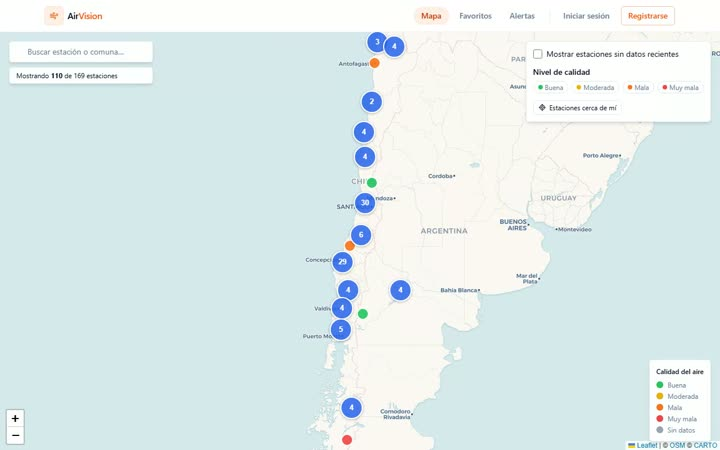
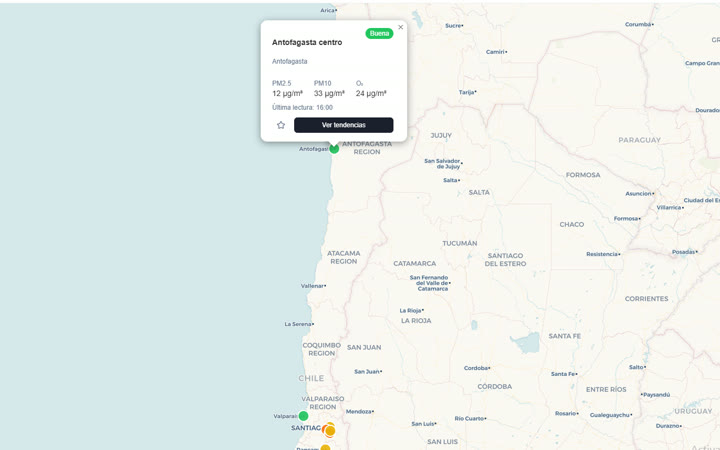
feat: switch project thumbnails to static images
Replace autoplay video thumbnails with static screenshots/logo:
maderas (site hero), airvision (map), eventos (App Cultura PUCV logo).
ProjectThumb now renders a lazy <img>; VIDEO_READY → THUMB_IMG map.
lpr keeps the animated placeholder (no photo available yet).
Drop webm assets and the playwright recording script.

diff --git a/src/components/ProjectThumb.jsx b/src/components/ProjectThumb.jsx
@@ -1,59 +1,15 @@
 /* ---------------- ProjectThumb ----------------
-   Miniatura de tarjeta de proyecto. Por defecto muestra el placeholder
-   animado de la referencia. Si el proyecto está activado en VIDEO_READY
-   (src/data/projects.js) y existe public/media/<slug>.webm, reproduce un
-   <video> en bucle, silenciado, lazy (solo en viewport) y con poster.
-   Respeta prefers-reduced-motion: en ese caso muestra el poster estático
-   (o el placeholder), sin autoplay (Constitución II/V). El vídeo es
-   decorativo (aria-hidden); el nombre accesible lo da el <Link> padre. */
+   Miniatura de tarjeta de proyecto. Si el proyecto tiene una imagen
+   asignada (THUMB_IMG en src/data/projects.js) la muestra como <img>
+   estática (lazy, object-fit:cover vía .thumb-video). Si no, cae al
+   placeholder animado de la referencia. La imagen es decorativa
+   (aria-hidden); el nombre accesible lo da el <Link> padre. */
 
-import { useRef, useEffect, useState } from "react";
-
-function prefersReducedMotion() {
-  return typeof window !== "undefined" &&
-    window.matchMedia("(prefers-reduced-motion: reduce)").matches;
-}
-
-export default function ProjectThumb({ slug, cap, hasVideo }) {
-  const videoRef = useRef(null);
-  const [reduced] = useState(prefersReducedMotion);
-  const webm = `/media/${slug}.webm`;
-  const poster = `/media/${slug}.jpg`;
-
-  // Lazy: reproducir solo cuando la miniatura entra en el viewport.
-  useEffect(() => {
-    const v = videoRef.current;
-    if (!v || reduced) return;
-    const io = new IntersectionObserver(
-      ([entry]) => {
-        if (entry.isIntersecting) v.play().catch(() => {});
-        else v.pause();
-      },
-      { rootMargin: "200px" }
-    );
-    io.observe(v);
-    return () => io.disconnect();
-  }, [reduced]);
-
+export default function ProjectThumb({ img, cap }) {
   return (
     <>
-      {hasVideo ? (
-        reduced ? (
-          <img className="thumb-video" src={poster} alt="" />
-        ) : (
-          <video
-            ref={videoRef}
-            className="thumb-video"
-            muted
-            loop
-            playsInline
-            preload="none"
-            poster={poster}
-            aria-hidden="true"
-          >
-            <source src={webm} type="video/webm" />
-          </video>
-        )
+      {img ? (
+        <img className="thumb-video" src={img} alt="" loading="lazy" aria-hidden="true" />
       ) : (
         <>
           <div className="thumb-anim" />

diff --git a/src/data/projects.js b/src/data/projects.js
@@ -6,34 +6,34 @@
    construyan los casos de estudio (tasks T029–T031). En este MVP la
    fila mantiene el comportamiento de la referencia (`open`). */
 
-/* Activar la miniatura en vídeo de un proyecto:
-   1) Deja el clip en  public/media/<slug>.webm  (y opcional un poster
-      estático en  public/media/<slug>.jpg).
-   2) Cambia su slug a `true` aquí abajo.
-   Mientras siga en `false`, la tarjeta muestra el placeholder animado.
-   Slugs: maderas · lpr · airvision · eventos. */
-export const VIDEO_READY = {
-  maderas: true,
-  lpr: false,
-  airvision: true,
-  eventos: false,
+/* Miniatura de cada proyecto: imagen estática en public/media/<slug>.jpg.
+   - maderas/airvision: screenshot del sitio/dashboard (repos de GitHub).
+   - eventos: logo "App Cultura PUCV".
+   El slug sin entrada aquí (lpr) usa el placeholder animado de la
+   referencia hasta tener una foto real del sistema en terreno.
+   Para añadir/cambiar una miniatura: deja el .jpg en public/media/ y
+   apunta su slug aquí. */
+export const THUMB_IMG = {
+  maderas: "/media/maderas.jpg",
+  airvision: "/media/airvision.jpg",
+  eventos: "/media/eventos.jpg",
 };
 
 export const projData = (lang) => [
   { n:"01", slug:"maderas", name:"Maderas Ponotro", badge: lang==="es"?"En producción · Cliente real":"In production · Real client", live:true,
     desc: lang==="es"?"Sitio corporativo y plataforma de cotizaciones para una maderera chilena, end-to-end como freelance.":"Corporate site and quotation platform for a Chilean timber company, end-to-end as a freelancer.",
     metrics:["Lighthouse SEO 100","A11y 100","Perf 94","Hero 780KB→156KB"], chips:["React 18","Vite","Tailwind","EmailJS","Netlify"],
-    cap:"[webm] carrito de cotización en vivo", links:[{k:"live",href:"https://maderasponotro.cl"},{k:"priv"}], open:"https://maderasponotro.cl" },
+    cap:"Maderas Ponotro · sitio en producción", links:[{k:"live",href:"https://maderasponotro.cl"},{k:"priv"}], open:"https://maderasponotro.cl" },
   { n:"02", slug:"lpr", name:"Sistema LPR — Club Naval", badge: lang==="es"?"Desplegado en terreno":"Deployed on-site", live:true,
     desc: lang==="es"?"Reconocimiento de patentes con visión por computador sobre hardware Hikvision + gestión de accesos e IoT.":"License-plate recognition with computer vision on Hikvision hardware + access management and IoT.",
     metrics: lang==="es"?["95% detección","−40% tiempo de accesos"]:["95% detection","−40% access time"], chips:["Python","OpenCV","Flutter","Supabase","Node-RED","Hikvision"],
-    cap:"[webm] sistema LPR detectando en terreno", links:[{k:"case"},{k:"intern"}], open:"#lpr" },
+    cap:"sistema LPR detectando en terreno", links:[{k:"case"},{k:"intern"}], open:"#lpr" },
   { n:"03", slug:"airvision", name:"AirVision", feat:true, badge: lang==="es"?"En vivo":"Live", live:true,
     desc: lang==="es"?"Dashboard de calidad del aire de Chile en tiempo real: 169 estaciones, mapa, alertas y arquitectura realtime.":"Realtime air-quality dashboard for Chile: 169 stations, map, alerts and a realtime architecture.",
     metrics:["+97% cobertura","166 tests","CI/CD","E2E Playwright"], chips:["React","TypeScript","Supabase","Leaflet","Recharts","Vitest"],
-    cap:"[webm] mapa de AirVision en tiempo real", links:[{k:"demo",href:"https://air-vision-xi.vercel.app/"},{k:"code",href:"https://github.com/Homzk/AirVision"}], open:"https://air-vision-xi.vercel.app/" },
+    cap:"mapa de AirVision en tiempo real", links:[{k:"demo",href:"https://air-vision-xi.vercel.app/"},{k:"code",href:"https://github.com/Homzk/AirVision"}], open:"https://air-vision-xi.vercel.app/" },
   { n:"04", slug:"eventos", name:"Eventos Culturales PUCV", badge: lang==="es"?"Proyecto de título":"Capstone project", live:false,
     desc: lang==="es"?"App multiplataforma para gestionar eventos universitarios, con preinscripción y control de acceso por QR.":"Cross-platform app to manage university events, with pre-registration and QR-based check-in.",
     metrics: lang==="es"?["Liderazgo técnico","3 roles: admin · monitor · usuario"]:["Tech lead","3 roles: admin · monitor · user"], chips:["Flutter","Dart","Supabase"],
-    cap:"[webm] flujo de check-in por QR", links:[{k:"case"}], open:"#eventos" },
+    cap:"App Cultura PUCV", links:[{k:"case"}], open:"#eventos" },
 ];

diff --git a/src/sections/Projects.jsx b/src/sections/Projects.jsx
@@ -11,7 +11,7 @@ import { Link } from "react-router";
 import { ArrowRight, Lock, Star } from "lucide-react";
 import { useLang } from "../i18n/LangContext";
 import { PROJ } from "../i18n/strings";
-import { projData, VIDEO_READY } from "../data/projects";
+import { projData, THUMB_IMG } from "../data/projects";
 import ProjectThumb from "../components/ProjectThumb";
 
 export default function Projects() {
@@ -29,7 +29,7 @@ export default function Projects() {
           {rows.map((p) => (
             <article className={`row ${p.feat ? "feat" : ""}`} key={p.n}>
               <Link className={`thumb ${p.feat ? "feat" : ""}`} to={`/proyecto/${p.slug}`} aria-label={p.name}>
-                <ProjectThumb slug={p.slug} cap={p.cap} hasVideo={VIDEO_READY[p.slug]} />
+                <ProjectThumb cap={p.cap} img={THUMB_IMG[p.slug]} />
               </Link>
               <div className="body">
                 <div className="num">{p.n} / 04</div>

diff --git a/specs/001-portfolio-site/tasks.md b/specs/001-portfolio-site/tasks.md
@@ -159,7 +159,7 @@ con `prefers-reduced-motion`: sin animación; sin hover: orbe deriva automático
 
 - [X] T041 [P] Pase de accesibilidad: HTML semántico, navegación por teclado, foco visible, contraste AA. Lighthouse a11y; corregidos heading-order (`h4`→`h3`), label-content-name-mismatch (`aria-hidden` en caption) y contraste AA (`--dim` oscurecido + tag Destacado con texto oscuro, aprobado) (FR-023/024, SC-004/005)
 - [X] T042 [P] Pase de rendimiento: Lighthouse en producción → Performance 98, Best Practices 100, SEO ≥90, FCP/LCP 1.8s, CLS 0.015, TBT 10ms; movimiento solo `transform`/`opacity` (SC-007/009). `robots.txt` añadido
-- [~] T043 Grabar miniaturas `webm` reales + `poster` en `public/media/` con la receta `ffmpeg` del quickstart. **Hecho: Maderas + AirVision** (grabados de los sitios en vivo con `scripts/record-thumbs.mjs` → VP9 720×450 + poster, activados en `VIDEO_READY`). **Pendiente: LPR** (footage en terreno) **y Eventos** (app móvil capstone) — siguen con placeholder animado hasta tener footage de Álvaro
+- [~] T043 Miniaturas de proyecto (decisión: **imágenes estáticas** en vez de vídeo — más limpias). **Hecho: Maderas** (screenshot hero del repo `maderas-ponotro`), **AirVision** (screenshot del mapa del repo `AirVision`, recortado para quitar email/watermark) y **Eventos** (logo "App Cultura PUCV"). Todas 720×450 en `public/media/<slug>.jpg`, mapeadas en `THUMB_IMG`. **Pendiente: LPR** — sin foto disponible (el repo es interno y el informe PDF no tiene imágenes extraíbles); sigue con placeholder animado hasta tener una foto real del sistema en terreno
 - [ ] T044 [P] Ajustar el repo de AirVision en GitHub ("About": descripción/website/topics) y verificar que la cifra de cobertura sea consistente en todo el sitio _(requiere acción en GitHub — Álvaro)_
 - [X] T045 Pase de fidelidad contra la referencia: paleta, tipografías, orbe, `→`/`✦`, orden, sin "con distinción", origin-story aún borrador — fidelidad visual confirmada por el autor
 - [X] T046 Desplegar en Vercel y validar recarga de deep-link (`/proyecto/lpr`) en producción → https://portfolio-sigma-green-54.vercel.app (rutas + CV → 200)